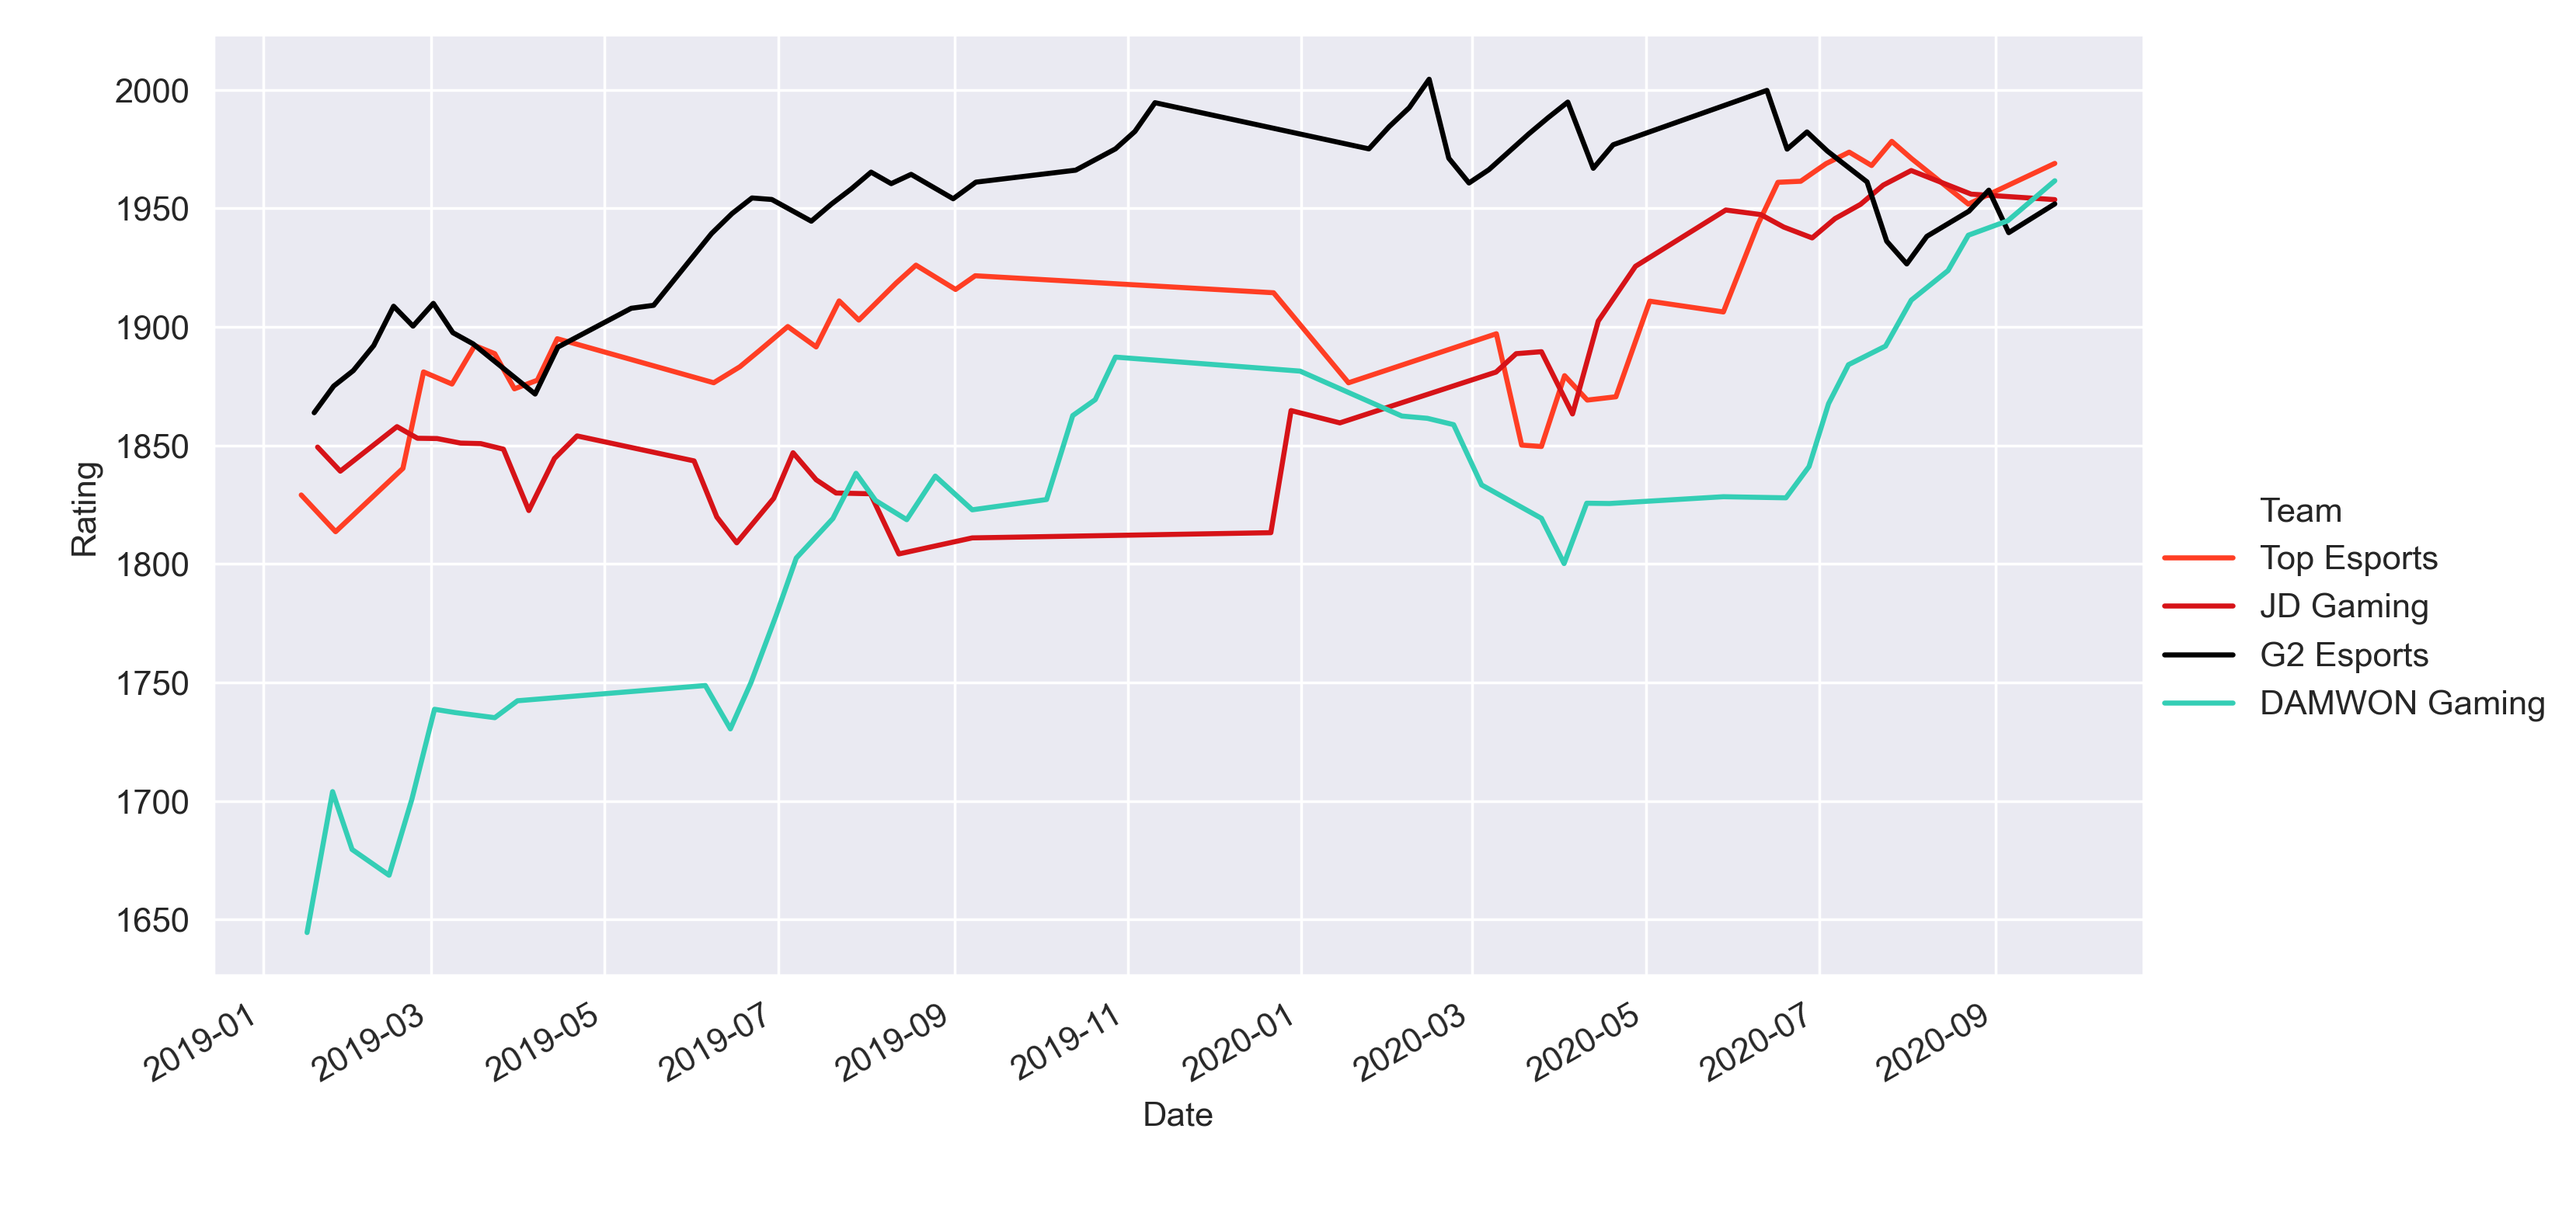
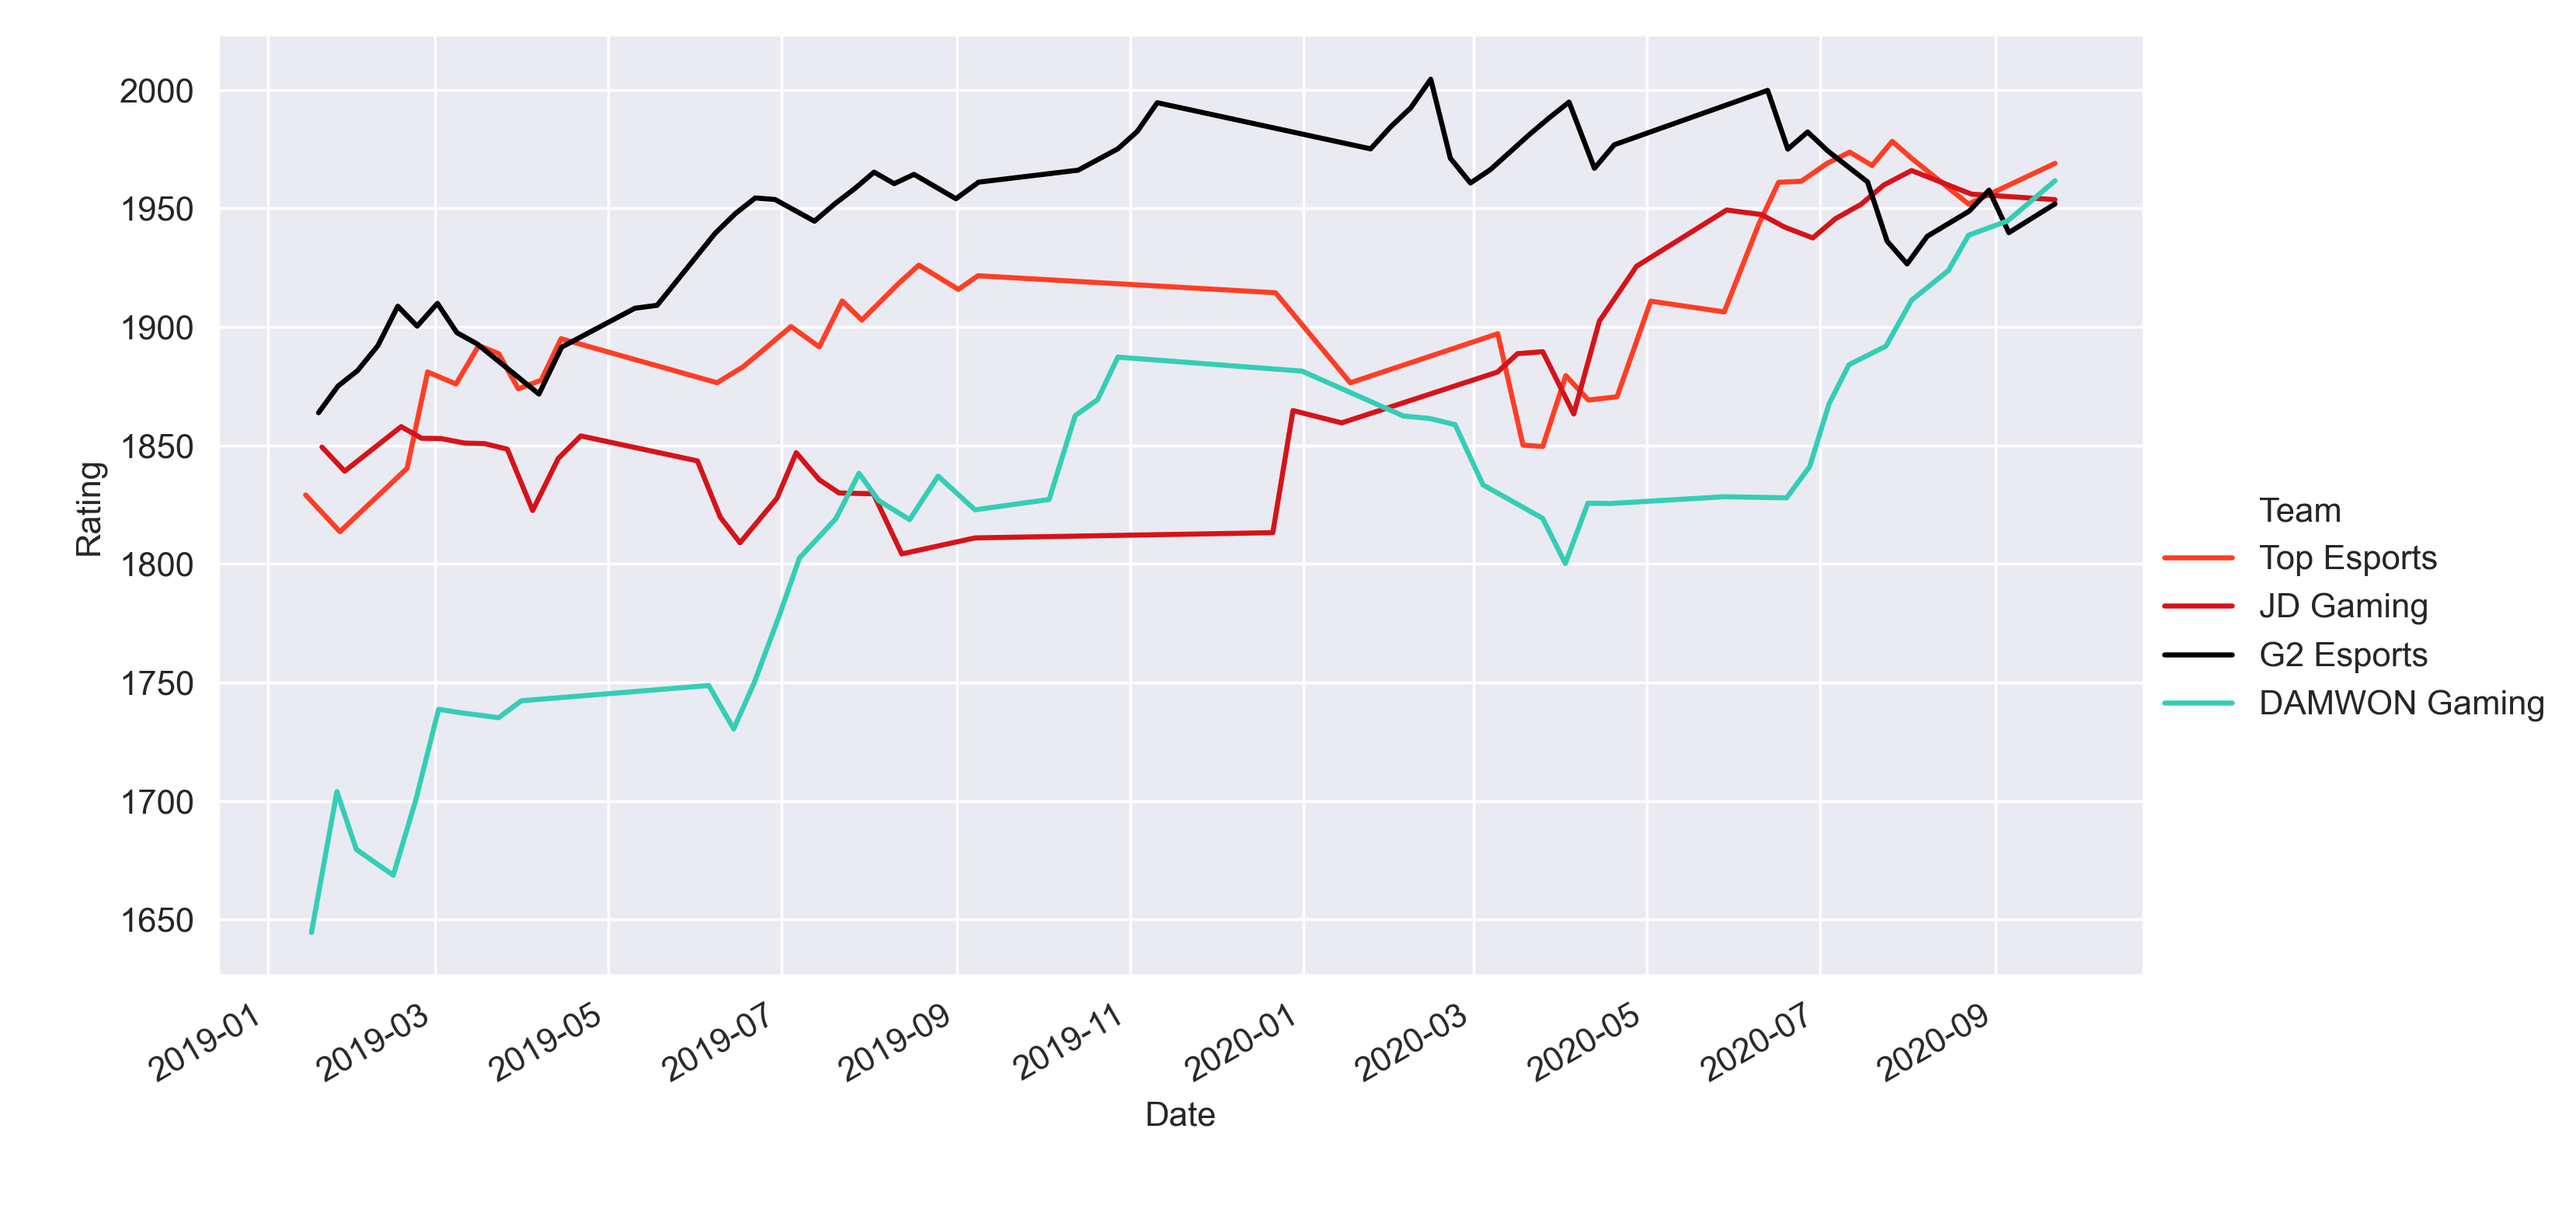
Remove smoothing factor (it's built into glicko2).

diff --git a/main.py b/main.py
@@ -1,11 +1,7 @@
 from pro_rankings import *
-from models import convert_to_days
 
 # only plot values after start of season 9.
 plot_after = "2019-01-09 00:00:00"
-
-# only plot the latest values from the last `n` days.
-smooth_factor = 1
 
 output_file = "data/output.png"
 
@@ -32,22 +28,6 @@ if __name__ == "__main__":
 
     plot_data = {"Date": [], "Rating": [], "Team": []}
     for team_name in team_names:
-        # smooth the rating history data
-        new_history = []
-        interval_start, latest_rating = (None, None)
-        interval_end = None
-        for date, rating in teams_dictionary[team_name].rating_history:
-            if interval_start is None:
-                interval_start, latest_rating = (date, rating)
-            elif convert_to_days(date) < convert_to_days(interval_start) + smooth_factor:
-                latest_rating = rating
-            else:
-                new_history.append((interval_end, latest_rating))
-                interval_start, latest_rating = (date, rating)
-            interval_end = date
-        new_history.append((interval_end, latest_rating))
-        teams_dictionary[team_name].rating_history = new_history
-
         # add to plotting data dictionary
         timestamps, ratings = zip(*teams_dictionary[team_name].rating_history)
         plot_data["Rating"].extend(ratings)
